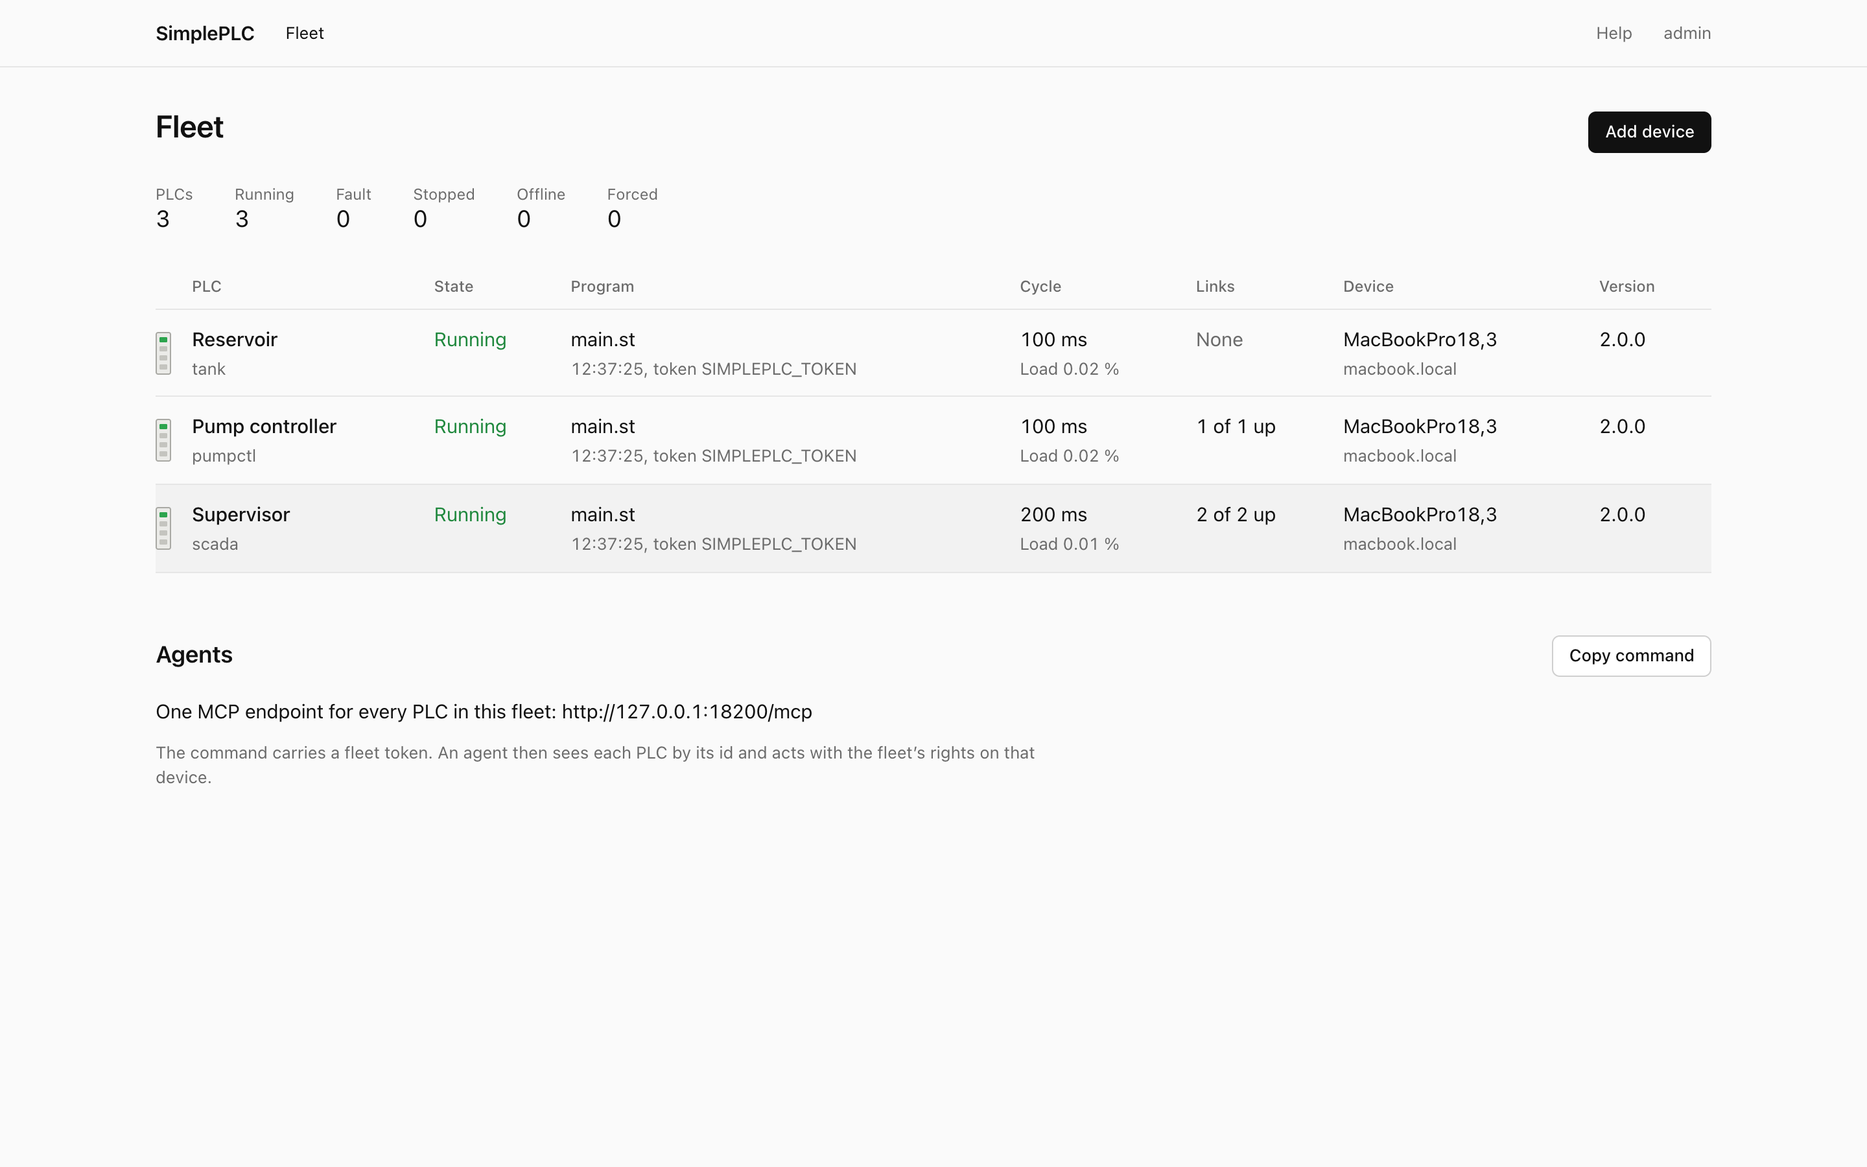
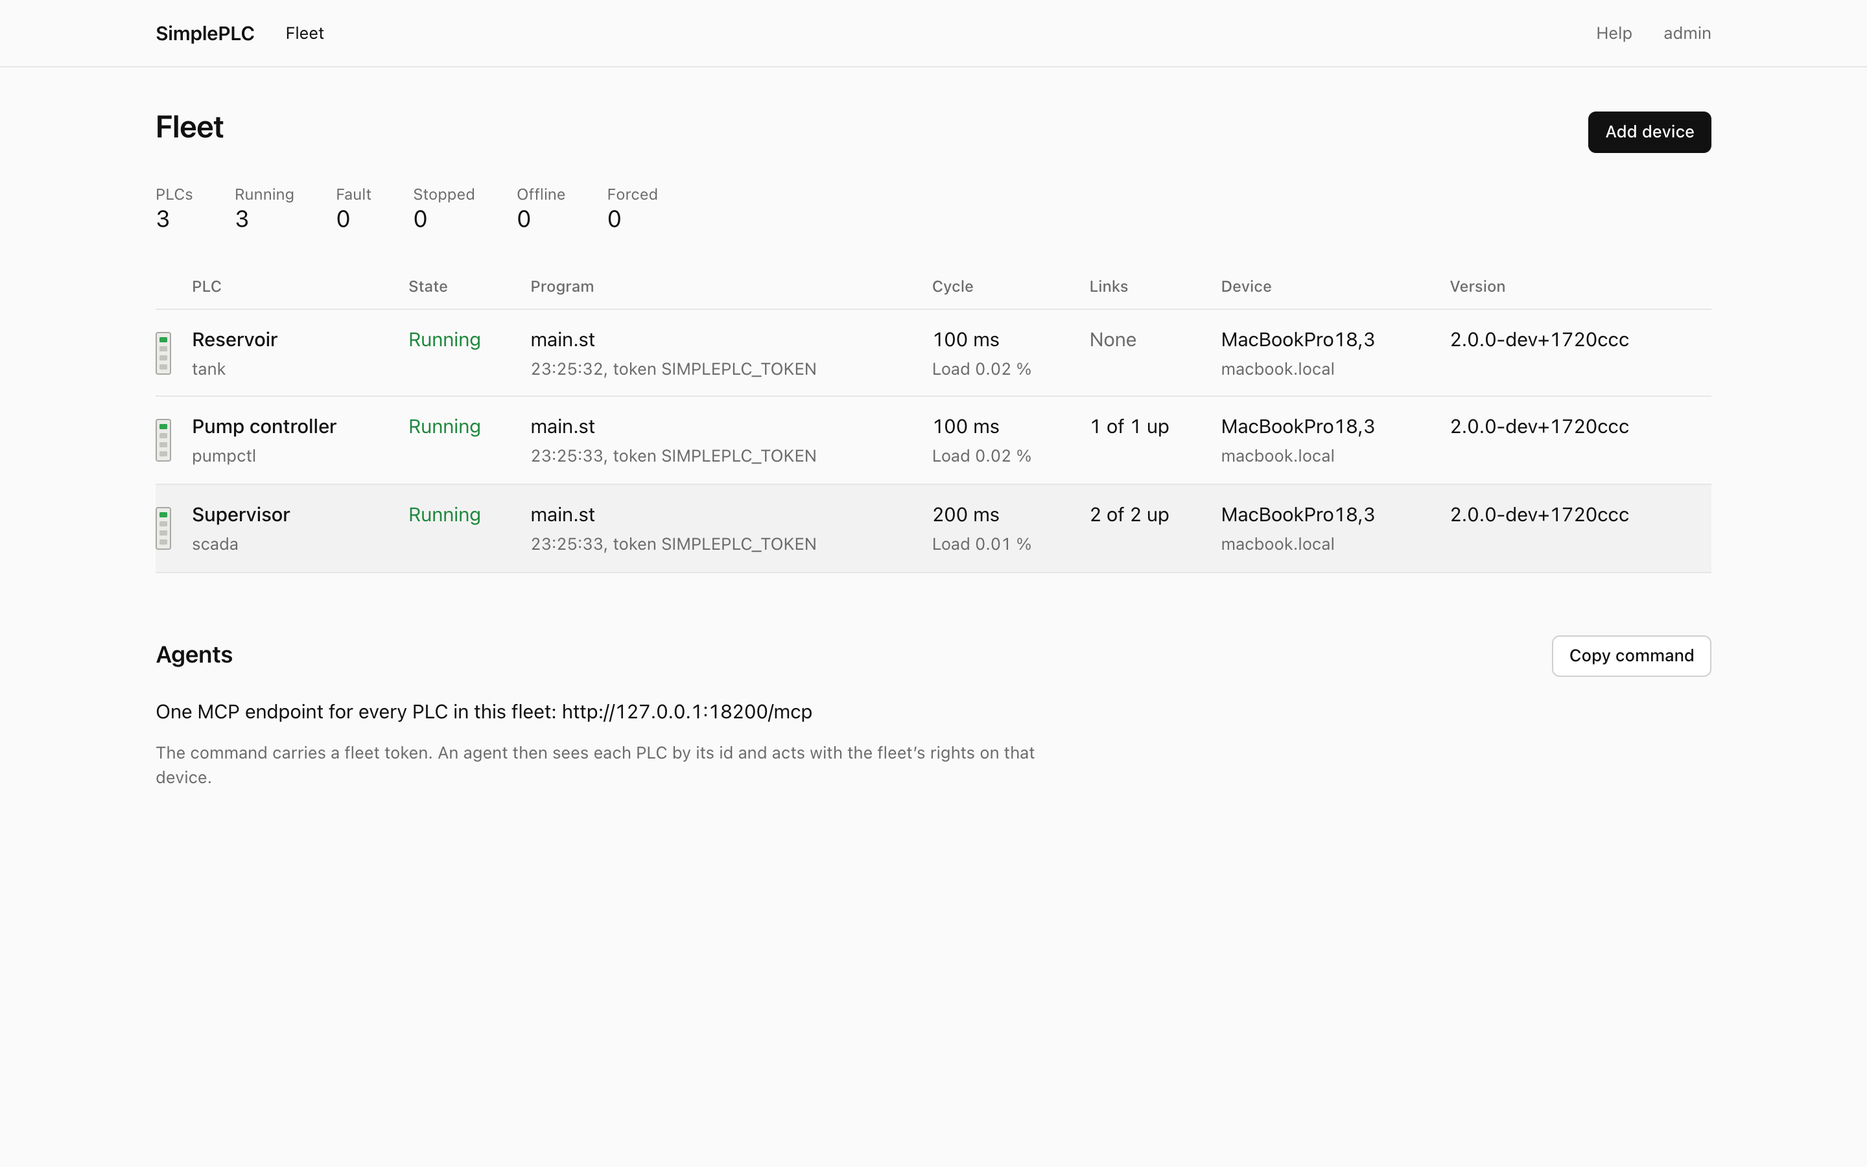
README updates

diff --git a/README.md b/README.md
@@ -1,22 +1,57 @@
-# SimplePLC
+<h1 align="center">SimplePLC</h1>
 
-[![CI](https://github.com/tommy-berg/SimplePLC/actions/workflows/ci.yml/badge.svg?branch=main)](https://github.com/tommy-berg/SimplePLC/actions/workflows/ci.yml)
+<p align="center">
+  <b>A soft PLC in one small executable.</b><br>
+  IEC 61131-3 Structured Text · Modbus TCP · OPC UA · web panel · REST API · MCP for AI agents
+</p>
 
-SimplePLC is a soft PLC in one small executable: each copy is one PLC, on a Raspberry Pi next
-to a machine, in a container or on a laptop. Programs are IEC 61131-3 Structured Text, compiled
-and checked before they run; the process image is served as Modbus TCP and OPC UA, with a web
-panel, a REST API and an MCP server for agents. Several PLCs talk Modbus TCP to each other, and
-a fleet gives one panel and one agent endpoint for all of them.
+<p align="center">
+  <a href="https://github.com/tommy-berg/SimplePLC/actions/workflows/ci.yml"><img src="https://github.com/tommy-berg/SimplePLC/actions/workflows/ci.yml/badge.svg?branch=main" alt="CI"></a>
+  <a href="https://hub.docker.com/r/tommyhbe/simpleplc"><img src="https://img.shields.io/docker/pulls/tommyhbe/simpleplc" alt="Docker pulls"></a>
+  <a href="https://hub.docker.com/r/tommyhbe/simpleplc"><img src="https://img.shields.io/docker/image-size/tommyhbe/simpleplc/latest?label=image" alt="Image size"></a>
+  <a href="LICENSE"><img src="https://img.shields.io/badge/license-MIT-blue" alt="MIT"></a>
+</p>
 
-![The SimplePLC panel: a PLC's overview, with the controller front, its state and cycle figures](docs/screenshot.png)
+<p align="center">
+  <img src="docs/overview.png" alt="A PLC's overview in the SimplePLC panel: the controller front with its LEDs, Running, cycle, latency and workload" width="900">
+</p>
 
-## Start
+Each copy of SimplePLC is **one PLC**: on a Raspberry Pi next to a machine, on a Linux PC or in a
+container. Programs are Structured Text, compiled and checked before they run. The process image is
+served as Modbus TCP and OPC UA, with a web panel, a REST API and an MCP server for agents. Several
+PLCs talk Modbus TCP to each other, and a **fleet** gives one panel and one agent endpoint for all of them.
 
-Download the file for your system from the
-[latest release](https://github.com/tommy-berg/SimplePLC/releases/latest)
-(Linux x86-64 and ARM, including 32-bit Raspberry Pi OS; macOS; Windows) and run it:
+- **A strict, auditable compiler.** No silent narrowing, diagnostics that say how to fix the problem, and the program *as compiled* on request
+- **Deterministic.** Verified bytecode with no allocation, and the same bits on every platform (SimplePLC has its own maths functions)
+- **Online change.** Saving a program replaces the running one between two cycles and keeps the values of its variables
+- **Safe on failure.** Run-time errors stop the PLC in FAULT with the line, and outputs get their substitute values
+- **Made for agents.** Every operation is an MCP tool: setting up a PLC, tags, programs, forcing, logs
+- **Small.** One static Linux binary for x86-64, ARM64 and 32-bit Raspberry Pi OS, and an 11 MB container image
+
+---
+
+## 🚀 Start
+
+### Docker
+
+The image is on Docker Hub: [tommyhbe/simpleplc](https://hub.docker.com/r/tommyhbe/simpleplc)
+(linux/amd64, linux/arm64 and linux/arm/v7, so it also runs on Docker Desktop for macOS and Windows).
 
 ```
+docker pull tommyhbe/simpleplc
+docker run -p 8080:8080 -p 502:502 -p 4840:4840 -v plc1:/data tommyhbe/simpleplc
+```
+
+The setup code is in the container's log (`docker logs <container>`).
+
+### Linux and Raspberry Pi
+
+Download the file for your machine from the
+[latest release](https://github.com/tommy-berg/SimplePLC/releases/latest) (x86-64, ARM64, or
+ARMv7 for 32-bit Raspberry Pi OS), make it executable and run it:
+
+```
+chmod +x simpleplc-linux-arm64 && mv simpleplc-linux-arm64 simpleplc
 ./simpleplc
 ```
 
@@ -30,45 +65,46 @@ Ready. Press Ctrl+C to stop.
 ```
 
 Open the web panel, enter the setup code and choose a password. The PLC is named after the
-computer and starts empty: write a program in the editor, connect a Modbus device under I/O,
-or start from an example on the Overview (a tank level control, a traffic light, remote I/O
-between two PLCs, ...). `sudo simpleplc install-service` makes it a system service on Linux: it
-starts at every boot with nobody logged in, may use port 502, and keeps its data in
-`/var/lib/simpleplc`. Without sudo (and on macOS) it starts at login.
+computer and starts empty. From there you can write a program in the editor, connect a Modbus device
+under **I/O**, or start from an example on the Overview (tank level control, traffic light, remote
+I/O between two PLCs, ...).
 
-With Docker (amd64, arm64, arm/v7); the setup code is in the container's log:
+`sudo simpleplc install-service` makes it a system service. It then starts at every boot with nobody
+logged in, may use port 502, and keeps its data in `/var/lib/simpleplc`. Without sudo it starts at login.
 
-```
-docker run -p 8080:8080 -p 502:502 -p 4840:4840 -v plc1:/data ghcr.io/tommy-berg/simpleplc
-```
+## 🔌 Connect
 
-## Connect
-
-Tags name addresses in the four Modbus areas (coils, discrete inputs, holding and input
-registers) with a type (bool, int16, uint16, int32, uint32, float32; 32-bit values take two
-registers, high word first) and, for outputs, a substitute value that is written at STOP and FAULT.
+Tags name addresses in the four Modbus areas (coils, discrete inputs, holding and input registers)
+and give each one a type: bool, int16, uint16, int32, uint32 or float32. 32-bit values take two
+registers, high word first. Outputs can have a **substitute value**, which is written at STOP and FAULT.
 
 | Client | How |
 |--------|-----|
-| Modbus TCP (HMIs, Factory I/O, pymodbus, QModMaster) | port 502, any unit id, addresses from 0; functions 1–6, 15, 16, 17, 22, 23 and 43/14 |
-| OPC UA (UaExpert, Ignition, Node-RED) | `opc.tcp://<host>:4840`, security policy None; each tag is the variable `ns=1;s=<tag name>`; at most 100 sessions, each ending at the latest a minute after its last request |
-| Scripts | create a token under *Users and tokens*, then `curl -H "Authorization: Bearer <token>" http://localhost:8080/api/v1/plcs` |
-| AI agents (MCP) | `claude mcp add --transport http simpleplc http://localhost:8080/mcp --header "Authorization: Bearer <token>"` |
+| **Modbus TCP** (HMIs, Factory I/O, pymodbus, QModMaster) | port 502, any unit id, addresses from 0; functions 1–6, 15, 16, 17, 22, 23 and 43/14 |
+| **OPC UA** (UaExpert, Ignition, Node-RED) | `opc.tcp://<host>:4840`, security policy None; each tag is the variable `ns=1;s=<tag name>`; at most 100 sessions, each ending at the latest a minute after its last request |
+| **Scripts** | create a token under *Users and tokens*, then `curl -H "Authorization: Bearer <token>" http://localhost:8080/api/v1/plcs` |
+| **AI agents (MCP)** | `claude mcp add --transport http simpleplc http://localhost:8080/mcp --header "Authorization: Bearer <token>"` |
 
-Point an agent at a device for its PLC, or at a fleet for all of them (the tools then take the
-PLC's id). Every PLC operation of the REST API is an MCP tool: setting a PLC up, tags, checking
-and deploying programs with every diagnostic, tags and program variables, forcing, events, logs,
-device information, Modbus reads and writes of any device, and prompts for writing a program and
-building a network. Without a running SimplePLC an agent can start its own: `claude mcp add
-simpleplc -- simpleplc mcp --data ./lab`; that PLC starts blank, its Modbus and OPC UA listen on
-127.0.0.1 only (`--listen` changes it), and it has no web panel unless asked for (`--web`, or
-`--port N`). The REST API, the fleet and the MCP server are described in [docs/api.md](docs/api.md).
+<p align="center">
+  <img src="docs/communication.png" alt="The Communication page: a link to another PLC, the Modbus TCP and OPC UA servers with their clients, and their security" width="800">
+</p>
 
-Ports below 1024 need extra rights on Linux and macOS. When port 502 cannot be used, SimplePLC
-takes the next free port from 5020 (OPC UA: from 4841) and says so; to use 502 on Linux, run
-`sudo setcap cap_net_bind_service=+ep ./simpleplc` once. Containers may use 502 as is.
+Point an agent at a device to work on its PLC, or at a fleet to work on all of them (the tools then
+take the PLC's id). Every PLC operation of the REST API is an MCP tool: setting a PLC up, tags,
+checking and deploying programs with every diagnostic, program variables, forcing, events, logs,
+device information, and Modbus reads and writes of any device. There are also prompts for writing a
+program and for building a network.
 
-## Programs
+An agent can also start its own PLC, with no SimplePLC running:
+`claude mcp add simpleplc -- simpleplc mcp --data ./lab`. That PLC starts blank. Its Modbus and
+OPC UA listen on 127.0.0.1 only (`--listen` changes it), and it has no web panel unless you ask for
+one (`--web`, or `--port N`). [docs/api.md](docs/api.md) describes the REST API, the fleet and the MCP server.
+
+Ports below 1024 need extra rights. When port 502 cannot be used, SimplePLC takes the next free port
+from 5020 (OPC UA: from 4841) and says so. To use 502, run
+`sudo setcap cap_net_bind_service=+ep ./simpleplc` once. Containers can use 502 as is.
+
+## 📝 Programs
 
 ```st
 (* Start the pump at or below start_level, stop it at stop_level. The level
@@ -94,50 +130,68 @@ END_PROGRAM
 ```
 
 A program declares the tags it uses in `VAR_EXTERNAL` (`CONSTANT` for the ones it only reads)
-and keeps its state in `VAR`; the standard timers, edge detectors, counters and functions are
-there. The compiler is strict: no silent narrowing (`INT := DINT` needs a conversion), no
-`a < b < c`, and every diagnostic says how to fix it. `simpleplc check main.st --tags tags.json
---listing` prints the problems and the program *as compiled*, every conversion and parenthesis
-written out. Programs run as verified bytecode without allocation; a run-time error (overflow,
-division by zero, an index out of range) stops the PLC in FAULT with the line, and tags with a
-substitute value get it. Saving a changed program replaces the running one between two cycles and
-keeps the values of the variables that still exist; one that does not compile is refused and
-the running one carries on. The same program gives the same bits on every platform: the maths
-functions are SimplePLC's own. The reference is the panel's Help page and
-[docs/structured-text.md](docs/structured-text.md); [docs/st-compliance.md](docs/st-compliance.md)
-states what is implemented and how.
+and keeps its state in `VAR`. The standard timers, edge detectors, counters and functions are all
+available.
 
-## A network of PLCs
+- **Strict compiler.** No silent narrowing (`INT := DINT` needs a conversion), no `a < b < c`, and
+  every diagnostic says how to fix the problem. `simpleplc check main.st --tags tags.json --listing`
+  prints the problems and the program *as compiled*, with every conversion and parenthesis written out.
+- **Runs as verified bytecode** with no allocation. A run-time error (overflow, division by zero,
+  an index out of range) stops the PLC in FAULT with the line, and tags with a substitute value get it.
+- **Online change.** Saving a changed program replaces the running one between two cycles and
+  keeps the values of the variables that still exist. A program that doesn't compile is refused,
+  and the running one carries on.
+- **Same results everywhere.** A program gives the same bits on every platform, because the maths
+  functions are SimplePLC's own.
 
-Several PLCs are several SimplePLCs: processes, containers or Raspberry Pis that talk Modbus
-TCP. A **link** in a PLC's configuration makes it a Modbus TCP client of another device: which
-of its tags to read from which addresses, which to write, a period, and a status tag that is
-TRUE while the device answers. Programs only use tags; every PLC is a Modbus TCP server to
-whoever polls it. Two PLCs and a fleet on one Docker network (on Raspberry Pis, give
-`--device` their addresses instead):
+The reference is the panel's Help page and [docs/structured-text.md](docs/structured-text.md).
+[docs/st-compliance.md](docs/st-compliance.md) states what is implemented and how.
+
+<p align="center">
+  <img src="docs/program.png" alt="The program editor with live values of tags and variables next to the code" width="800">
+</p>
+
+## 🏭 A network of PLCs
+
+Several PLCs are several SimplePLCs: processes, containers or Raspberry Pis that talk Modbus TCP.
+A **link** in a PLC's configuration makes it a Modbus TCP client of another device. The link says
+which of its tags to read from which addresses, which to write, how often, and which status tag is
+TRUE while the device answers. Programs only use tags, and every PLC is a Modbus TCP server to whoever
+polls it.
+
+Two PLCs and a fleet on one Docker network (on Raspberry Pis, give `--device` their addresses instead):
 
 ```
 export SIMPLEPLC_TOKEN=$(openssl rand -hex 16)
 docker network create plant
 docker run -d --name tank --hostname tank --network plant -e SIMPLEPLC_TOKEN \
-    -e SIMPLEPLC_EXAMPLE=tank ghcr.io/tommy-berg/simpleplc
+    -e SIMPLEPLC_EXAMPLE=tank tommyhbe/simpleplc
 docker run -d --name alarms --hostname alarms --network plant -e SIMPLEPLC_TOKEN \
-    -e SIMPLEPLC_EXAMPLE=remote-io ghcr.io/tommy-berg/simpleplc
+    -e SIMPLEPLC_EXAMPLE=remote-io tommyhbe/simpleplc
 docker run -d --name fleet --network plant -p 127.0.0.1:8080:8080 -e SIMPLEPLC_TOKEN \
-    -e SIMPLEPLC_DEVICES=tank,alarms ghcr.io/tommy-berg/simpleplc fleet
+    -e SIMPLEPLC_DEVICES=tank,alarms tommyhbe/simpleplc fleet
 ```
 
-`alarms` runs the remote-io example: its link reads `tank`'s level every 200 ms and its
-program raises an alarm above a limit. The **fleet** shows the PLCs of many devices on one
-panel, with their links, and gives agents one MCP endpoint for all of them; it can also start
-without devices and adopt them with a pairing code ([docs/api.md](docs/api.md), "The fleet").
+`alarms` runs the remote-io example. Its link reads `tank`'s level every 200 ms, and its program
+raises an alarm above a limit. The **fleet** shows the PLCs of many devices on one panel, with their
+links, and gives agents one MCP endpoint for all of them. It can also start without devices and adopt
+them with a pairing code ([docs/api.md](docs/api.md), "The fleet").
 
-![A fleet: three PLCs on their own devices, each with its lights, program, cycle and links](docs/fleet.png)
+<table>
+  <tr>
+    <td><img src="docs/fleet.png" alt="A fleet of three PLCs, all running, with their cycle, links and version"></td>
+    <td><img src="docs/fault.png" alt="The same fleet with the pump controller in FAULT: division by zero at main.st line 47"></td>
+  </tr>
+  <tr>
+    <td align="center"><sub>Three PLCs in one fleet</sub></td>
+    <td align="center"><sub>A fault shows where it happened</sub></td>
+  </tr>
+</table>
 
-## Settings
+## ⚙ Settings
 
-Everything lives in one data directory (`./simpleplc-data`, or `~/.simpleplc` when the
-current directory is not writable; `/data` in the container). One process uses it at a time.
+Everything lives in one data directory: `./simpleplc-data`, or `~/.simpleplc` when the current
+directory is not writable, and `/data` in the container. One process uses it at a time.
 
 ```
 config.json          web port, log level and the PLC: id, name, tags, tasks, links, ports
@@ -147,13 +201,17 @@ programs/<name>.st   programs and libraries (1 MB each, 2 MB together); .history
 mode                 run or stop, as last commanded on the panel or the API: the PLC powers up in it
 ```
 
-The panel edits all of it. A PLC has up to 8 tasks (`cycle_ms` 1–60000) and 16 links; `realtime`
-gives tasks with a `priority` real-time scheduling (SCHED_FIFO on Linux, time-constraint on
-macOS). Retentive memory: tags with `"retain": true` and `RETAIN` variables are written to
-`retain.json` when they change, at most once a second, and come back after a power cut; every other
-tag starts at 0 and every other variable from its initial value. The commanded mode is kept too, so
-a PLC in STOP comes back in STOP. A new data directory starts from these flags or variables; an existing one
-keeps its configuration and says so:
+The panel edits all of it.
+
+- **Tasks and links:** a PLC has up to 8 tasks (`cycle_ms` 1–60000) and 16 links. `realtime` gives
+  tasks with a `priority` real-time scheduling (SCHED_FIFO).
+- **Retentive memory:** tags with `"retain": true` and `RETAIN` variables are written to
+  `retain.json` when they change, at most once a second, and come back after a power cut. Every
+  other tag starts at 0, and every other variable starts from its initial value.
+- **Mode:** the commanded mode is kept too, so a PLC in STOP comes back in STOP.
+
+A new data directory starts from these flags or environment variables. An existing one keeps its
+configuration and says so.
 
 | Flag | Environment | Default |
 |------|-------------|---------|
@@ -169,32 +227,38 @@ simpleplc fleet --device URL ...             one panel and MCP endpoint for the 
 simpleplc mcp [--data DIR] [--web]           MCP on stdin/stdout with its own PLC
 simpleplc mcp --url URL --token TOKEN        MCP on stdin/stdout for a running SimplePLC or fleet
 simpleplc check FILE.st ... [--tags FILE] [--listing]    compile and print every problem
-simpleplc install-service                    run at login; with sudo on Linux: a system service at boot
+simpleplc install-service                    run at login; with sudo: a system service at boot
 simpleplc --version | --help
 ```
 
 `--data` and `--port` also come from `SIMPLEPLC_DATA` and `SIMPLEPLC_WEB_PORT`. `SIMPLEPLC_TOKEN`
-is an administrator token for scripts, agents and fleets, never stored; a fleet signs in to its
-`--device` devices with `SIMPLEPLC_DEVICE_TOKEN` (default: its own `SIMPLEPLC_TOKEN`).
+is an administrator token for scripts, agents and fleets, and is never stored. A fleet signs in to
+its `--device` devices with `SIMPLEPLC_DEVICE_TOKEN` (default: its own `SIMPLEPLC_TOKEN`).
 
-## Security
+## 🔒 Security
 
-The panel and the API need a login or a token, but are served over plain HTTP. Modbus TCP has
-no authentication and OPC UA runs with security policy None (no encryption, no signing): anyone
-who can reach those ports can read and write the PLC. Keep PLCs on a network you trust, or set
-their `listen` addresses to `127.0.0.1` in Settings; the network above publishes only the
-fleet's panel, on `127.0.0.1`. Programs have no file, process or network access: they read and
-write their tags, and the bytecode is verified before it runs. A fleet holds an administrator
-token for every device: treat it like the engineering station it is.
+> [!WARNING]
+> Modbus TCP has no authentication, and OPC UA runs with security policy None (no encryption, no
+> signing). Anyone who can reach those ports can read and write the PLC.
 
-## Build from source
+- **Network:** keep PLCs on a network you trust, or set their `listen` addresses to `127.0.0.1` in
+  Settings. The network example above publishes only the fleet's panel, on `127.0.0.1`.
+- **Panel and API:** they need a login or a token, but are served over plain HTTP.
+- **Programs:** they have no file, process or network access. They read and write their tags, and
+  the bytecode is verified before it runs.
+- **Fleet:** a fleet holds an administrator token for every device, so treat it like the
+  engineering station it is.
 
-Needs a C++23 compiler (GCC 13, Clang 17, MSVC 2022) and CMake 3.24; `cmake -B build && cmake --build build -j`
-builds `./build/simpleplc`. An installed open62541 1.4+ is used when found; otherwise (or with
-`-DSIMPLEPLC_FETCH_OPEN62541=ON`) open62541 1.5.9 is built from source, which needs Python 3
-and Git. `-DSIMPLEPLC_STATIC=ON` links statically (Linux with musl, Windows). The Dockerfile
-builds the same static binary for any platform Docker can build for.
+## 🛠 Build from source
+
+You need a C++23 compiler (GCC 13 or later, or Clang 19 or later) and CMake 3.24.
+`cmake -B build && cmake --build build -j` builds `./build/simpleplc`.
+
+- **open62541:** an installed open62541 1.4+ is used when found. Otherwise (or with
+  `-DSIMPLEPLC_FETCH_OPEN62541=ON`), open62541 1.5.9 is built from source, which needs Python 3 and Git.
+- **Static builds:** `-DSIMPLEPLC_STATIC=ON` links statically (with musl, as the releases do). The
+  Dockerfile builds the same static binary for any platform Docker can build for.
 
 ## License
 
-MIT, see [LICENSE](LICENSE); bundled components and their licences: [THIRD_PARTY_LICENSES.md](THIRD_PARTY_LICENSES.md).
+MIT, see [LICENSE](LICENSE). Bundled components and their licences are listed in [THIRD_PARTY_LICENSES.md](THIRD_PARTY_LICENSES.md).
